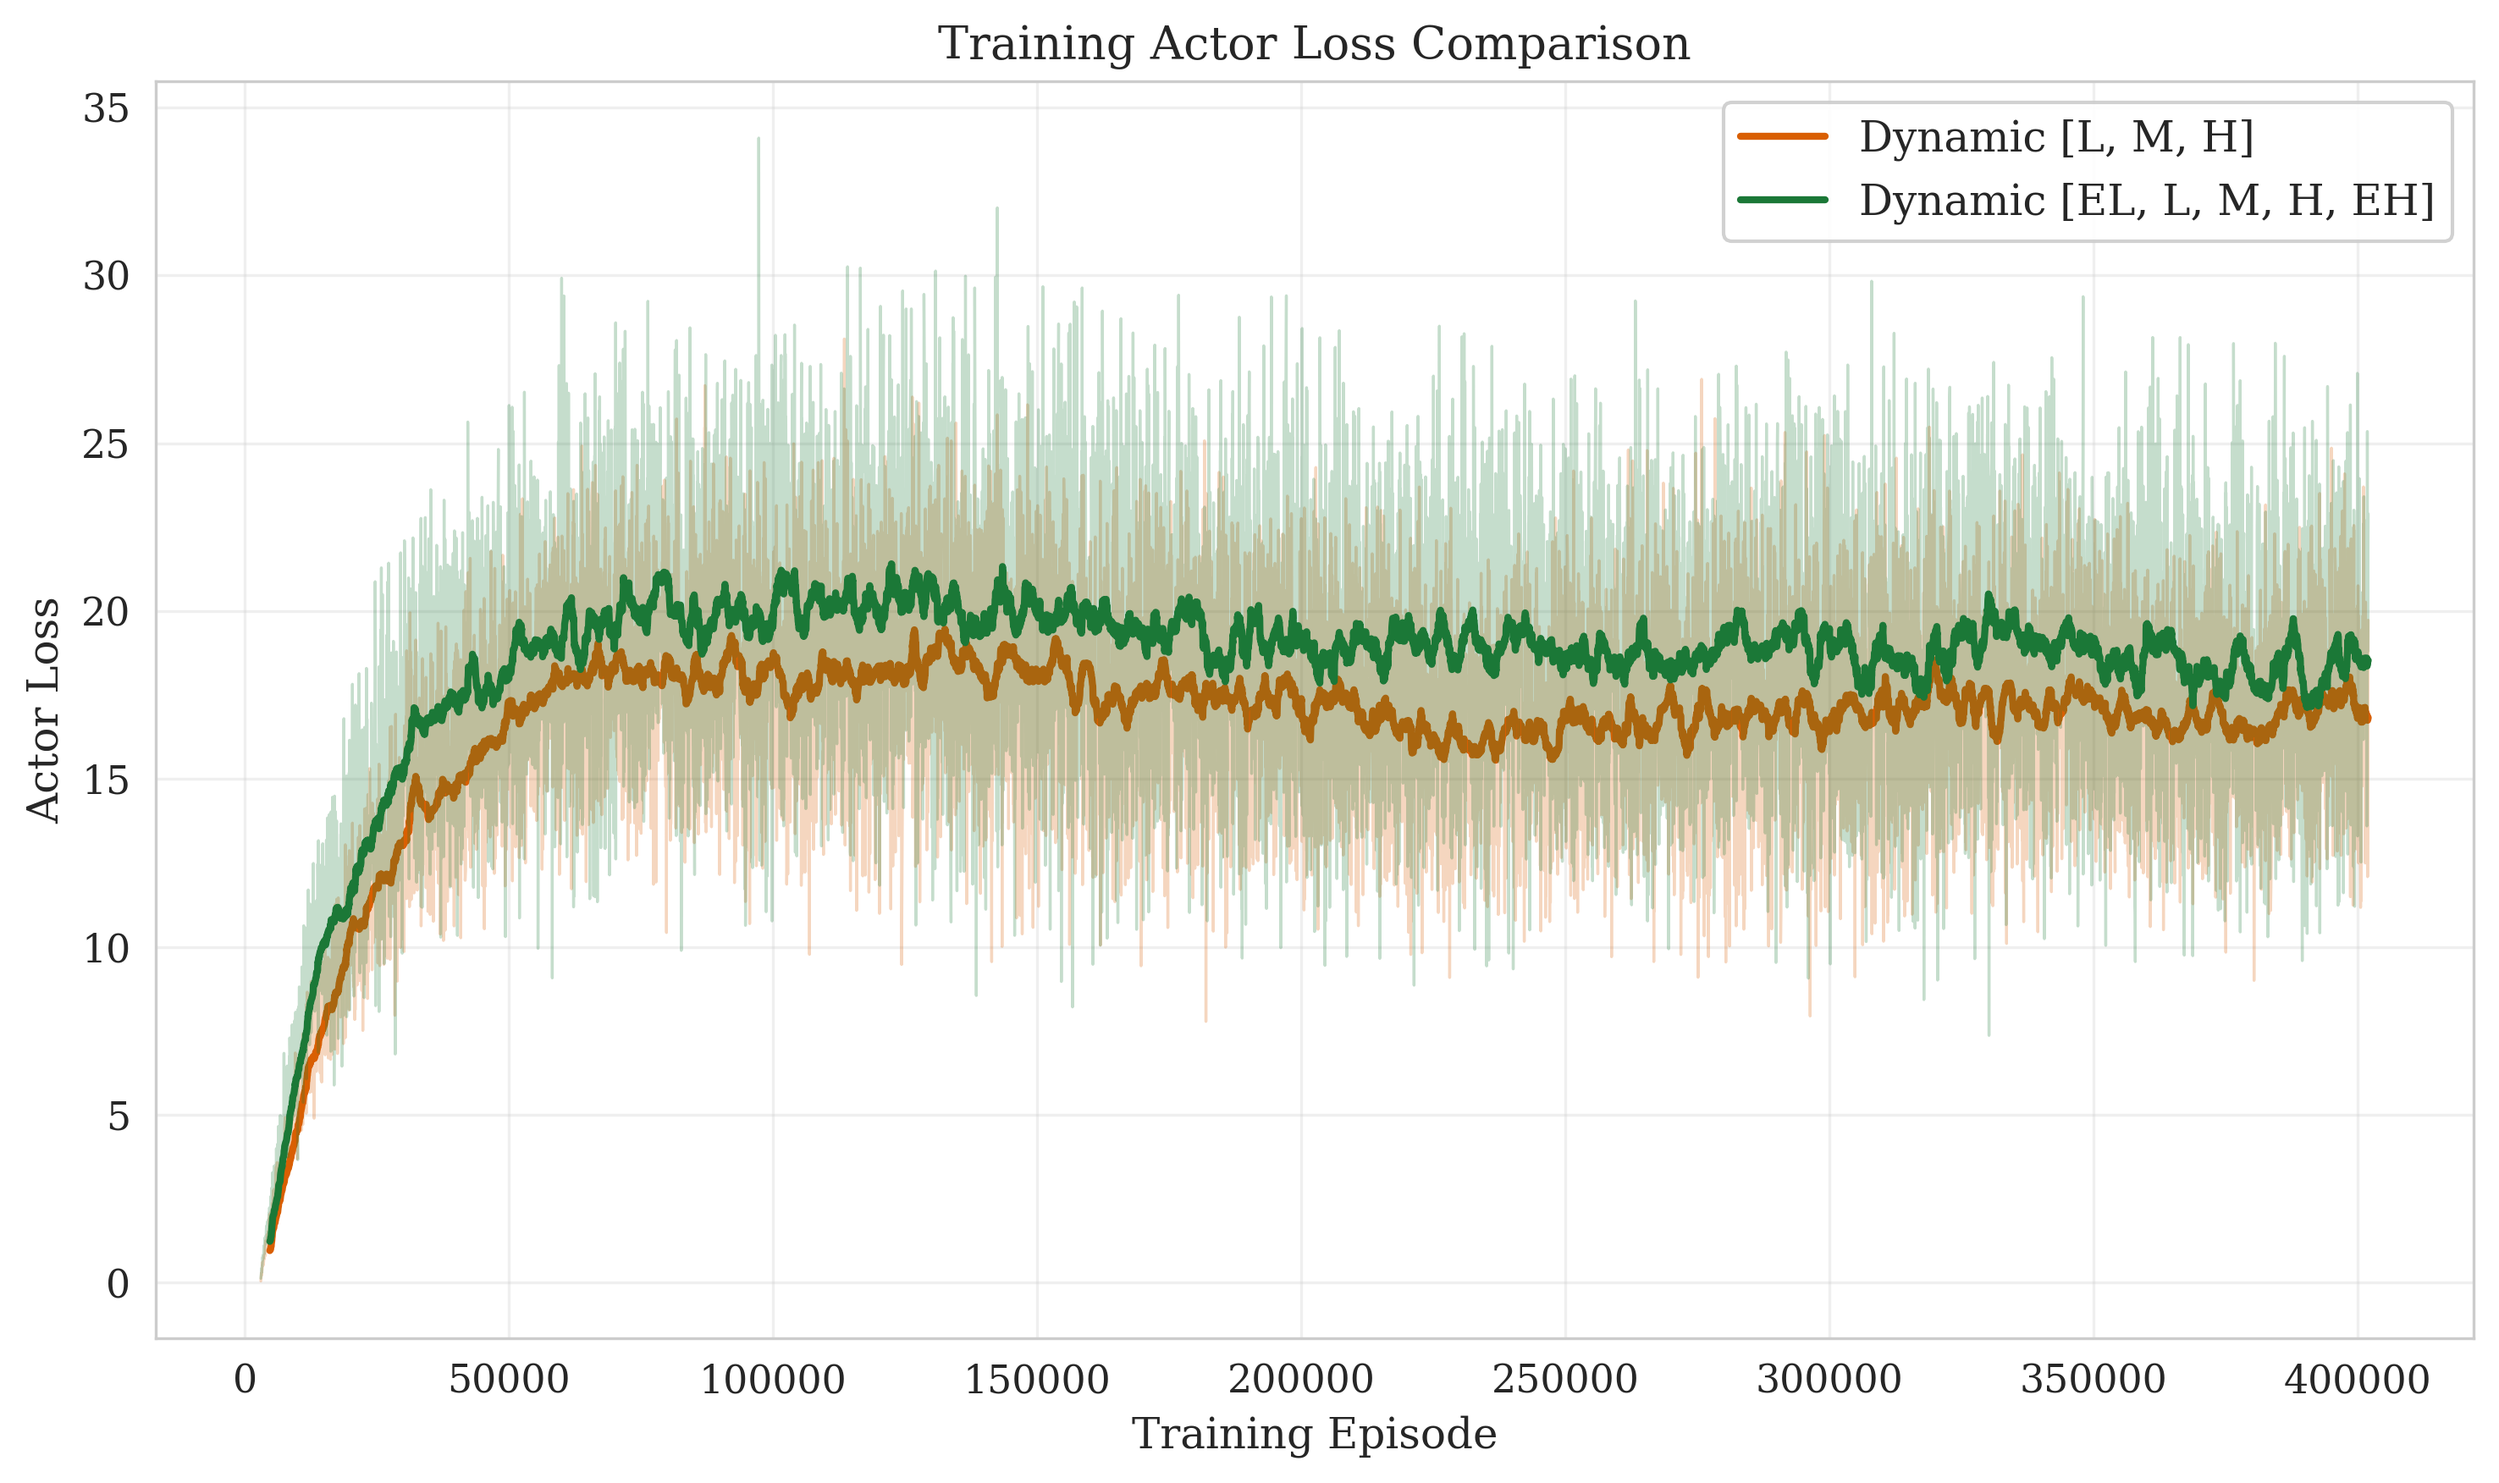
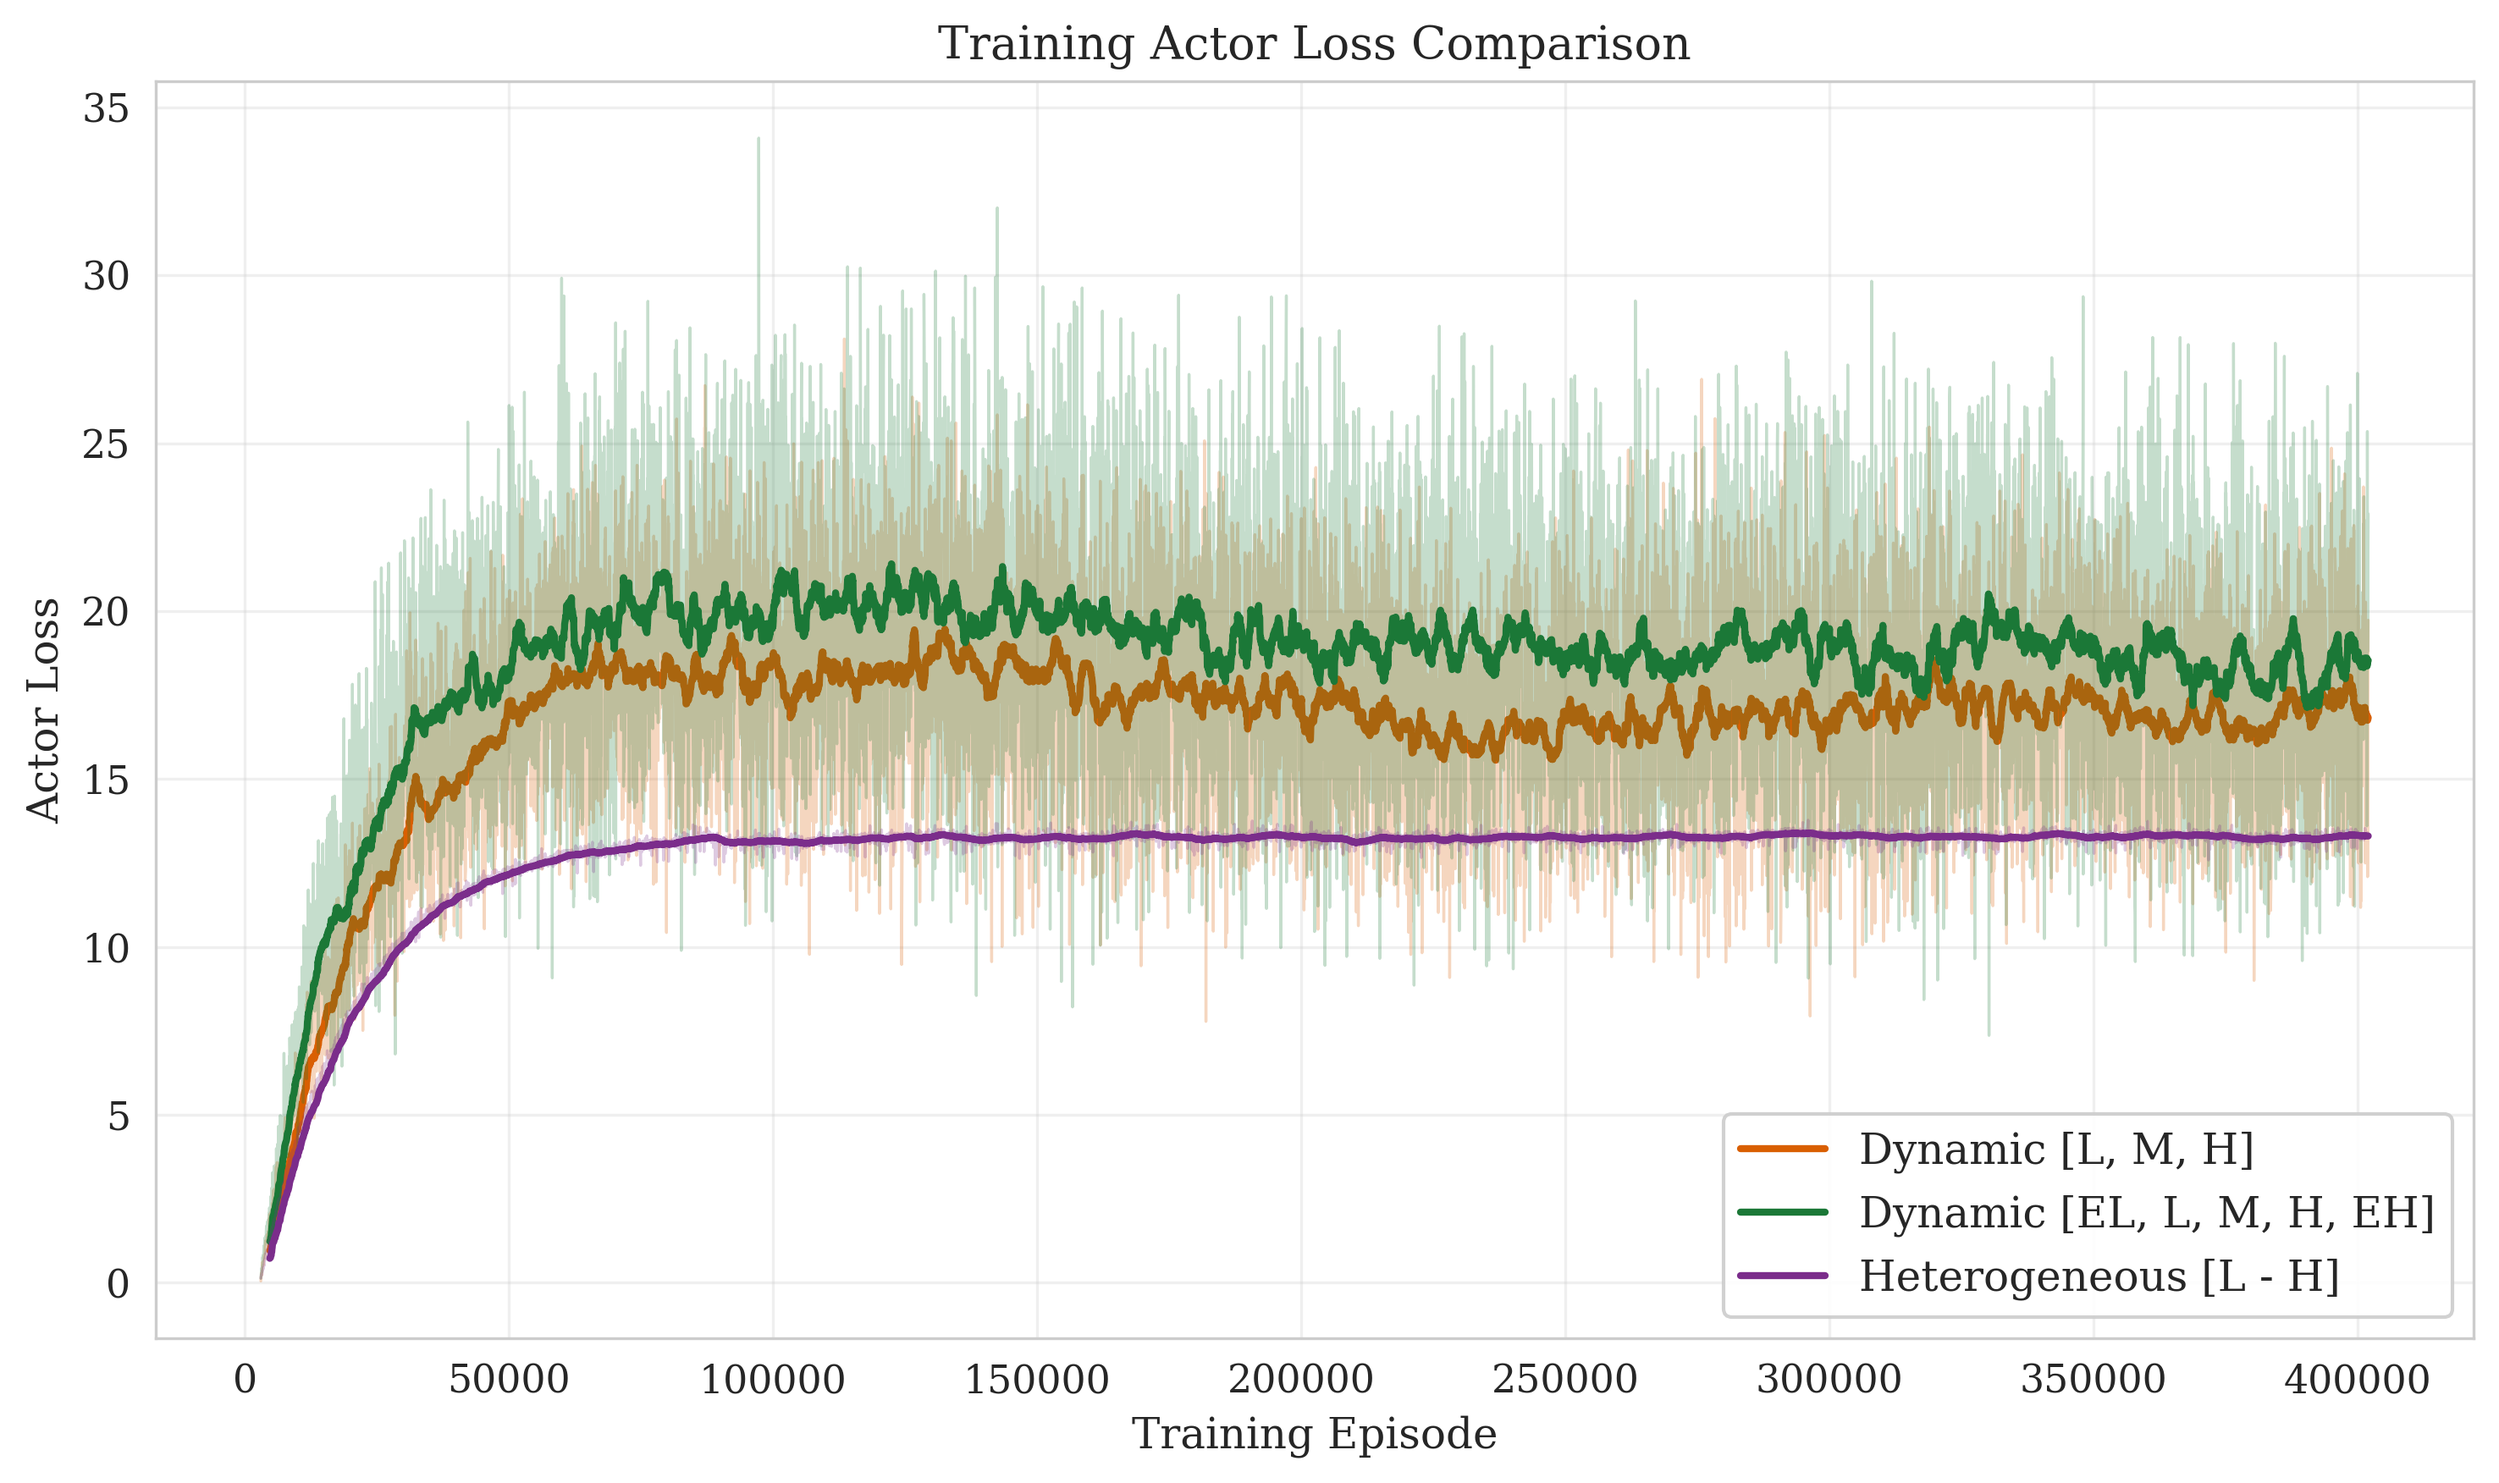
ver4.0

diff --git a/figures_dynamic.py b/figures_dynamic.py
@@ -324,15 +324,14 @@ def _fig5_continuous_beta(data, output_dir, episode, label):
 
 def fig_actor_loss_comparison(experiments, output_dir):
     """
-    Training actor loss comparison between two dynamic experiments with
-    different profile pools (e.g. [L,M,H] vs [EL,L,M,H,EH]).
-
-    Falls back to any two experiments with actor loss data if fewer than
-    two dynamic runs are available.
+    Training actor loss comparison:
+      • One curve per distinct dynamic profile pool (e.g. [L,M,H] and [EL,L,M,H,EH]).
+      • One curve for the global-reward heterogeneous L-H scenario (if available).
+    Colors are clearly distinct: orange, dark green, purple.
     """
     print("\n[Figure] Actor Loss Comparison...")
 
-    # Prefer dynamic experiments; pick one per distinct pool size
+    # ── Dynamic experiments: one per distinct pool size ───────────────────────
     dynamic_with_loss = [
         e for e in experiments
         if e['category'] == 'dynamic'
@@ -345,33 +344,37 @@ def fig_actor_loss_comparison(experiments, output_dir):
         pool_size = len(exp.get('dynamic_profile_set', []))
         if pool_size not in seen_pool_sizes:
             seen_pool_sizes[pool_size] = exp
-            pool = exp.get('dynamic_profile_set', [])
+            pool  = exp.get('dynamic_profile_set', [])
             label = f"Dynamic [{abbrev_profile(pool)}]" if pool else exp['scenario_str']
             to_plot.append((label, exp))
         if len(to_plot) == 2:
             break
 
-    # If we couldn't find two distinct dynamic pools, fall back to any two experiments
-    if len(to_plot) < 2:
-        for exp in experiments:
-            if exp in [t[1] for t in to_plot]:
-                continue
-            if 'episode_actor_loss' in exp.get('data', {}):
-                pool = exp.get('dynamic_profile_set', [])
-                if pool:
-                    label = f"[{abbrev_profile(pool)}]"
-                else:
-                    label = f"{exp['category'].title()} ({abbrev_scenario_str(exp['scenario_str'])})"
-                to_plot.append((label, exp))
-            if len(to_plot) == 2:
+    # ── Heterogeneous L-H scenario (global reward) ───────────────────────────
+    # Match on the abbreviated scenario_str produced by step1, e.g. 'Low - High'
+    # abbrev_scenario_str converts it to 'L - H'.
+    hetero_lh = None
+    for exp in experiments:
+        if (exp['category'] == 'static_heterogeneous'
+                and exp.get('reward_formulation', 'global') == 'global'
+                and 'episode_actor_loss' in exp.get('data', {})):
+            abbrev = abbrev_scenario_str(exp['scenario_str'])
+            if abbrev == 'L - H':
+                hetero_lh = exp
                 break
+
+    if hetero_lh is not None:
+        to_plot.append((f"Heterogeneous [{abbrev_scenario_str(hetero_lh['scenario_str'])}]",
+                        hetero_lh))
+    else:
+        print("  ℹ  No global-reward heterogeneous L-H experiment with actor loss found")
 
     if not to_plot:
         print("  ⚠  No actor loss data available")
         return
 
-    # Clearly distinct colors: orange and dark green
-    colors = ['#d95f02', '#1b7837']
+    # Clearly distinct colors: orange, dark green, purple
+    colors = ['#d95f02', '#1b7837', '#7b2d8b']
 
     fig, ax = plt.subplots(figsize=(10, 6))
     for (label, exp), color in zip(to_plot, colors):
